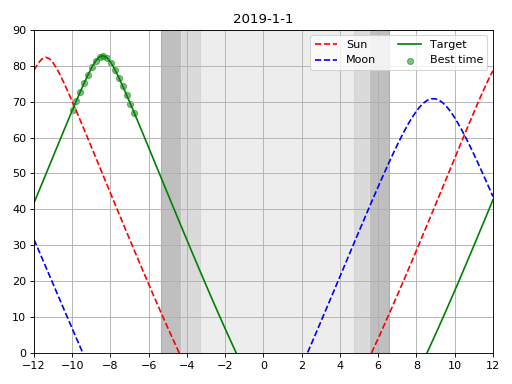
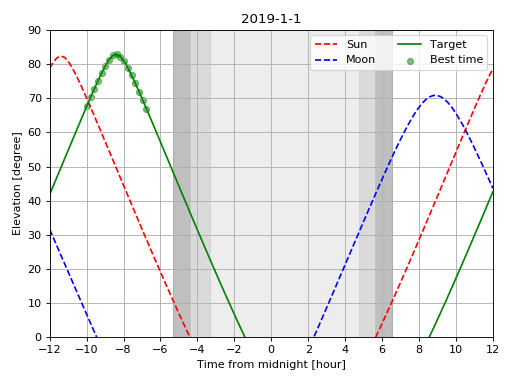
delete png

diff --git a/scripts/auspicious.py b/scripts/auspicious.py
@@ -51,6 +51,8 @@ def best_times_day(coord, lat=-30.7133, lon=21.443, utcoff=2., date='2019-01-01'
         plt.legend(loc='best', ncol=2)
         plt.grid()
         plt.title(date)
+        plt.xlabel('Time from midnight [hour]')
+        plt.ylabel('Elevation [degree]')
         if show: plt.show()
         else: plt.tight_layout(); plt.savefig(filename, dpi=80)
 
